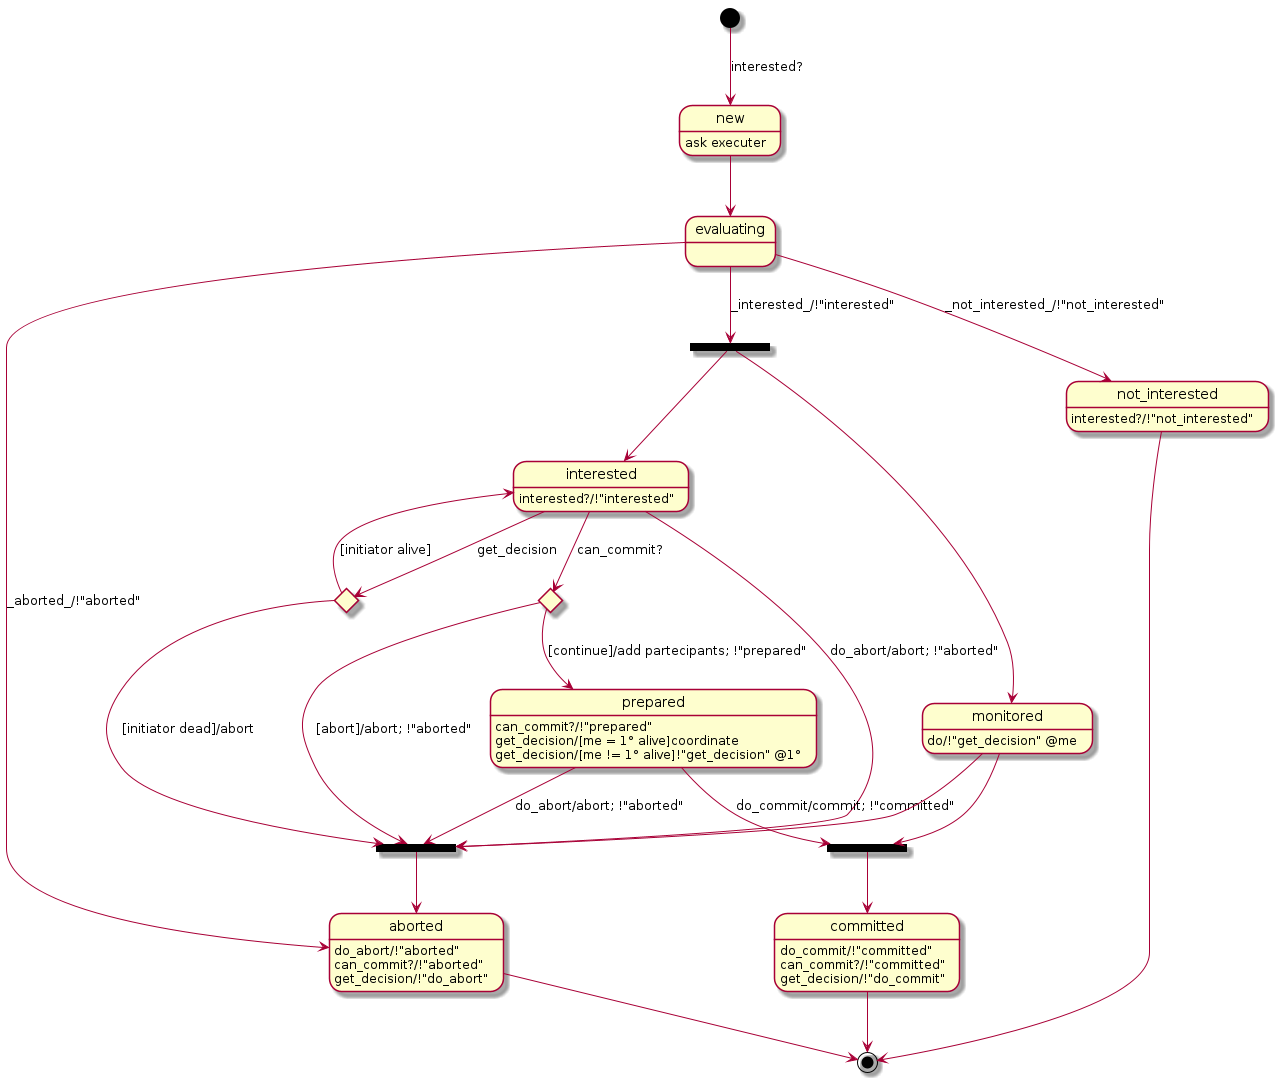
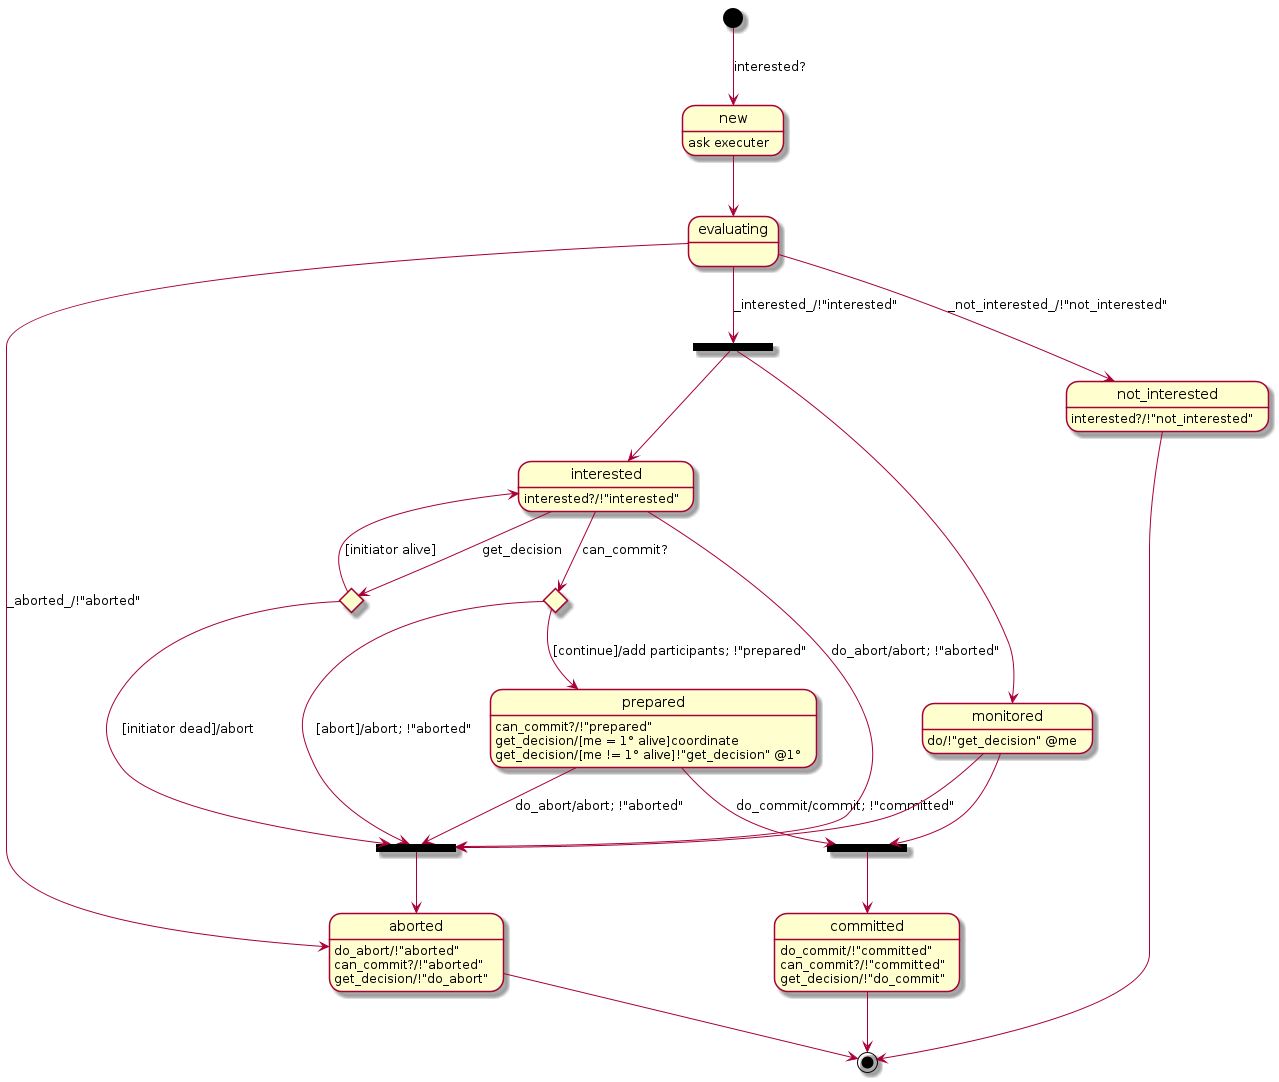
Correct typos

diff --git a/communication/memberlistTransactions.go b/communication/memberlistTransactions.go
@@ -24,7 +24,7 @@ type transactionInfo struct {
 	Initiator    string
 	Number       int
 	Payload      []byte
-	Partecipants []string
+	Participants []string
 	stopMonitor  chan bool
 	coordinated  bool
 	commands     chan string
@@ -34,30 +34,30 @@ func (t *transactionInfo) id() string {
 	return fmt.Sprintf("%s->%d", t.Initiator, t.Number)
 }
 
-func (t *transactionInfo) buryPartecipants(members []*memberlist.Node) {
+func (t *transactionInfo) buryParticipants(members []*memberlist.Node) {
 	alives := stringset.Make()
 	for _, member := range members {
 		alives.Insert(member.Name)
 	}
 	buried := 0
-	for i, partecipant := range t.Partecipants {
-		if !alives.Has(partecipant) {
-			t.Partecipants[i] = ""
+	for i, participant := range t.Participants {
+		if !alives.Has(participant) {
+			t.Participants[i] = ""
 			buried++
 		}
 	}
-	remaining := len(t.Partecipants) - buried
+	remaining := len(t.Participants) - buried
 	j := 1
 	for i := 0; i < remaining; i++ {
-		if t.Partecipants[i] == "" {
-			for t.Partecipants[j] == "" {
+		if t.Participants[i] == "" {
+			for t.Participants[j] == "" {
 				j++
 			}
-			t.Partecipants[i], t.Partecipants[j] = t.Partecipants[j], t.Partecipants[i]
+			t.Participants[i], t.Participants[j] = t.Participants[j], t.Participants[i]
 		}
 		j++
 	}
-	t.Partecipants = t.Partecipants[:remaining]
+	t.Participants = t.Participants[:remaining]
 }
 
 type transactionChannels struct {
@@ -134,7 +134,7 @@ func (a *MemberlistAgent) interested(tran transactionInfo) ([]string, error) {
 func (a *MemberlistAgent) interestPhase(msg []byte, channels transactionChannels, number int) ([]string, error) {
 	aborted := ""
 	waitFor := stringset.Make()
-	for _, member := range a.adapter.filterPartecipants(a.list.Members()) {
+	for _, member := range a.adapter.filterParticipants(a.list.Members()) {
 		waitFor.Insert(member.Name)
 	}
 	var interested []string
@@ -154,10 +154,10 @@ func (a *MemberlistAgent) interestPhase(msg []byte, channels transactionChannels
 			case receivers := <-receiversCh:
 				timeout = time.After(time.Millisecond * timeoutPhaseResend)
 				waitFor.Intersect(receivers)
-			case partecipant := <-channels.areInterested:
+			case participant := <-channels.areInterested:
 				received++
-				interested = append(interested, partecipant)
-				delete(waitFor, partecipant)
+				interested = append(interested, participant)
+				delete(waitFor, participant)
 			case uninterested := <-channels.areUninterested:
 				received++
 				delete(waitFor, uninterested)
@@ -206,7 +206,7 @@ func (a *MemberlistAgent) coordinateTransaction(tran transactionInfo) error {
 		return errors.New("could not marshal can_commit? message")
 	}
 	receivers := stringset.Make()
-	for _, nodeName := range tran.Partecipants {
+	for _, nodeName := range tran.Participants {
 		receivers.Insert(nodeName)
 	}
 	channels := makeTransactionChannels(tran)
@@ -216,12 +216,12 @@ func (a *MemberlistAgent) coordinateTransaction(tran transactionInfo) error {
 	a.logger.Debug("Started transaction",
 		zap.String("subj", canCommit.Sender.Name),
 		zap.String("act", "start_tran"),
-		zap.Int("partecipants", receivers.Size()))
+		zap.Int("participants", receivers.Size()))
 	res := a.firstPhase(receivers, msg, channels)
 	a.logger.Debug("Terminated first phase",
 		zap.String("subj", canCommit.Sender.Name),
 		zap.String("act", "end_1_phase"),
-		zap.Int("partecipants", receivers.Size()))
+		zap.Int("participants", receivers.Size()))
 	a.testsHaltIf(TestsAfterFirst)
 	responses := channels.haveCommitted
 	action := "do_commit"
@@ -252,8 +252,8 @@ func (a *MemberlistAgent) coordinateTransaction(tran transactionInfo) error {
 	return res
 }
 
-func (a *MemberlistAgent) firstPhase(partecipants stringset.Set, msg []byte, channels transactionChannels) error {
-	waitFor := partecipants.Clone()
+func (a *MemberlistAgent) firstPhase(participants stringset.Set, msg []byte, channels transactionChannels) error {
+	waitFor := participants.Clone()
 	for !waitFor.Empty() {
 		var timeout <-chan time.Time = nil
 		waitForCopy := waitFor.Clone()
@@ -481,7 +481,7 @@ func (a *MemberlistAgent) handleTransactions() {
 					tran := &transactionInfo{}
 					*tran = message.Transaction
 					tran.Payload = nil
-					tran.Partecipants = nil
+					tran.Participants = nil
 					go func(tran transactionInfo) {
 						a.transactionMessages <- messageUnion{
 							Sender:      a.list.LocalNode(),
@@ -524,7 +524,7 @@ func (a *MemberlistAgent) handleTransactions() {
 						a.terminated[id] = "aborted"
 						delete(a.transactions, id)
 					} else {
-						tran.Partecipants = message.Transaction.Partecipants
+						tran.Participants = message.Transaction.Participants
 					}
 				default:
 					response.Type = status
@@ -601,7 +601,7 @@ func (a *MemberlistAgent) handleTransactions() {
 					}
 					if tran.coordinated {
 						message.Transaction.Payload = nil
-						message.Transaction.Partecipants = nil
+						message.Transaction.Participants = nil
 						message.Type = "prepared"
 						select {
 						case a.transactionResponses <- message:
@@ -609,11 +609,11 @@ func (a *MemberlistAgent) handleTransactions() {
 						}
 						break
 					}
-					tran.buryPartecipants(a.list.Members())
-					if len(tran.Partecipants) == 0 {
-						a.logger.Panic("Empty partecipant list")
+					tran.buryParticipants(a.list.Members())
+					if len(tran.Participants) == 0 {
+						a.logger.Panic("Empty participant list")
 					}
-					head := tran.Partecipants[0]
+					head := tran.Participants[0]
 					if head == a.list.LocalNode().Name {
 						a.logger.Debug("Initiator is dead: becoming new coordinator",
 							zap.String("subj", head),
@@ -679,7 +679,7 @@ func (a *MemberlistAgent) getStatus(id string) string {
 	if tran.stopMonitor == nil {
 		return "evaluating"
 	}
-	if len(tran.Partecipants) == 0 {
+	if len(tran.Participants) == 0 {
 		return "interested"
 	}
 	return "prepared"

diff --git a/communication/memberlist_test.go b/communication/memberlist_test.go
@@ -505,7 +505,7 @@ func transactionHelper(t *testing.T, agents []*MemberlistAgent, payload []byte, 
 	detectors := make([]<-chan bool, 0, len(agents)-1)
 	agentIds := make(map[<-chan int]int)
 	for i, agt := range agents {
-		t.Run(fmt.Sprintf("PartecipantStart#%d", i+1), func(t *testing.T) {
+		t.Run(fmt.Sprintf("ParticipantStart#%d", i+1), func(t *testing.T) {
 			start(t, agt, agt.listeningPort)
 		})
 		if i == 0 {
@@ -517,12 +517,12 @@ func transactionHelper(t *testing.T, agents []*MemberlistAgent, payload []byte, 
 			agentIds[r] = i
 			results = append(results, r)
 		} else {
-			d := startPartecipantDetector(payload, agt)
+			d := startParticipantDetector(payload, agt)
 			detectors = append(detectors, d)
 		}
 	}
 	for i, agt := range agents {
-		t.Run(fmt.Sprintf("PartecipantJoin#%d", i+1), func(t *testing.T) {
+		t.Run(fmt.Sprintf("ParticipantJoin#%d", i+1), func(t *testing.T) {
 			err := agt.Join()
 			if err != nil {
 				t.Fatal(err.Error())
@@ -571,7 +571,7 @@ func transactionHelper(t *testing.T, agents []*MemberlistAgent, payload []byte, 
 	}
 }
 
-func startPartecipantDetector(payload []byte, a *MemberlistAgent) <-chan bool {
+func startParticipantDetector(payload []byte, a *MemberlistAgent) <-chan bool {
 	res := make(chan bool)
 	go func() {
 		halted := make(chan bool)

diff --git a/communication/memberlistAgent.go b/communication/memberlistAgent.go
@@ -219,12 +219,12 @@ func (a *MemberlistAgent) ForAll(payload []byte) error {
 	}
 	a.initiatedTransactions++
 	var err error
-	info.Partecipants, err = a.interested(info)
+	info.Participants, err = a.interested(info)
 	if err != nil {
 		return err
 	}
-	if len(info.Partecipants) == 0 {
-		a.logger.Debug("Terminated transaction: none interested", zap.String("act", "end_tran"), zap.Int("partecipants", 0))
+	if len(info.Participants) == 0 {
+		a.logger.Debug("Terminated transaction: none interested", zap.String("act", "end_tran"), zap.Int("participants", 0))
 		return nil
 	}
 	return a.coordinateTransaction(info)

diff --git a/communication/delegateAdapter.go b/communication/delegateAdapter.go
@@ -32,8 +32,8 @@ func (d delegateAdapter) stop() {
 	d.delegate.Stop(d.delegateMembers())
 }
 
-func (d delegateAdapter) filterPartecipants(nodes []*memberlist.Node) []*memberlist.Node {
-	return d.delegate.FilterPartecipants(d.delegateMembers(), nodes)
+func (d delegateAdapter) filterParticipants(nodes []*memberlist.Node) []*memberlist.Node {
+	return d.delegate.FilterParticipants(d.delegateMembers(), nodes)
 }
 
 func (d delegateAdapter) register() (*sync.WaitGroup, error) {

diff --git a/communication/delegateDefault.go b/communication/delegateDefault.go
@@ -11,7 +11,7 @@ func (d delegateDefault) Start(b BaseMembers) {}
 
 func (d delegateDefault) Stop(b BaseMembers) {}
 
-func (d delegateDefault) FilterPartecipants(b BaseMembers, nodes []*memberlist.Node) []*memberlist.Node {
+func (d delegateDefault) FilterParticipants(b BaseMembers, nodes []*memberlist.Node) []*memberlist.Node {
 	res := make([]*memberlist.Node, 0, len(nodes))
 	myName := b.List.LocalNode().Name
 	for _, n := range nodes {

diff --git a/executer.go b/executer.go
@@ -340,7 +340,7 @@ func (m *Executer) execUpdate(update Update) {
 		} else {
 			err := variable.Assign(action.Value, m.dataContext, m.workingMemory)
 			if err != nil {
-				m.logger.Panic("Could not perform assingment: "+err.Error(),
+				m.logger.Panic("Could not perform assignment: "+err.Error(),
 					zap.String("act", "assign"),
 					zap.Object("action", assignmentLogger(action)))
 			}

diff --git a/communication/memberlistDelegate.go b/communication/memberlistDelegate.go
@@ -16,7 +16,7 @@ type BaseMembers struct {
 type MemberlistDelegate interface {
 	Start(BaseMembers)
 	Stop(BaseMembers)
-	FilterPartecipants(BaseMembers, []*memberlist.Node) []*memberlist.Node
+	FilterParticipants(BaseMembers, []*memberlist.Node) []*memberlist.Node
 
 	NodeMeta(BaseMembers, int) []byte
 	NotifyMsg(BaseMembers, []byte)
